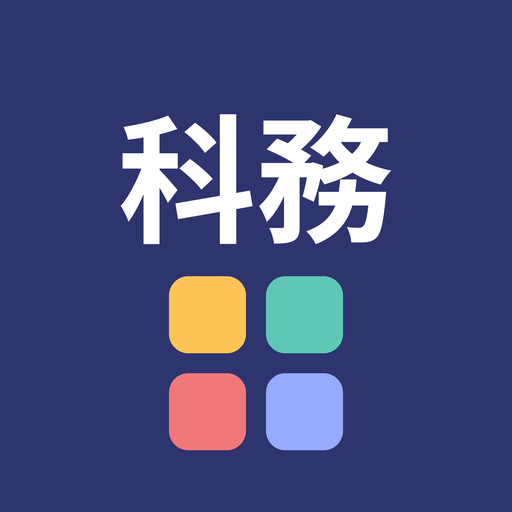
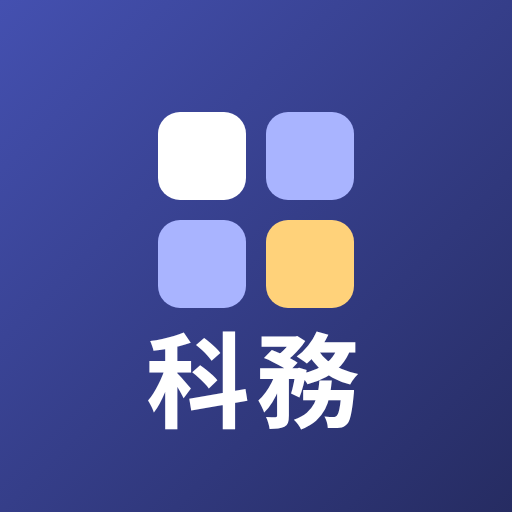
v1.6 入口加速、新圖示、意見回饋集中與版本紀錄
- Code.gs 新增 ?keys= 一次讀多個鍵；入口與晨會改用 getMany（舊版自動退回逐鍵）
- 入口先顯示本機快取（or:hubcache）再背景更新；Google 字型非阻塞載入
- 三個網站各自的新圖示與分享縮圖（調度板青綠、科務靛藍、晨會橘），引用加 ?v=2
- 意見回饋集中到 hub.html#fb，附版本紀錄；調度板、晨會只留連結按鈕

Claude-Session: https://claude.ai/code/session_01TCzKUp7wpwmxoDeWqBFV97

diff --git a/hub.html b/hub.html
@@ -3,10 +3,11 @@
 <head>
 <meta charset="utf-8">
 <meta name="viewport" content="width=device-width, initial-scale=1">
-<meta name="apple-mobile-web-app-capable" content="yes"><meta name="mobile-web-app-capable" content="yes"><meta name="apple-mobile-web-app-title" content="泌尿科入口"><meta name="robots" content="noindex,nofollow"><link rel="manifest" href="hub.webmanifest"><link rel="apple-touch-icon" href="hub-apple-touch-icon.png"><link rel="icon" type="image/png" href="hub-favicon.png"><meta name="theme-color" content="#2e346e"><meta property="og:title" content="泌尿科 科務入口"><meta property="og:description" content="人員名冊・常用連結・今日總覽"><meta property="og:image" content="og-hub.png"><meta property="og:type" content="website">
+<meta name="apple-mobile-web-app-capable" content="yes"><meta name="mobile-web-app-capable" content="yes"><meta name="apple-mobile-web-app-title" content="泌尿科入口"><meta name="robots" content="noindex,nofollow"><link rel="manifest" href="hub.webmanifest"><link rel="apple-touch-icon" href="hub-apple-touch-icon.png?v=2"><link rel="icon" type="image/png" href="hub-favicon.png?v=2"><meta name="theme-color" content="#2e346e"><meta property="og:title" content="泌尿科 科務入口"><meta property="og:description" content="今日總覽・人員名冊・交班・回饋"><meta property="og:image" content="og-hub.png?v=2"><meta property="og:type" content="website">
 <title>泌尿科 科務入口</title>
 <link rel="preconnect" href="https://fonts.googleapis.com">
-<link href="https://fonts.googleapis.com/css2?family=Figtree:wght@500;700;800&family=Noto+Sans+TC:wght@400;500;700&display=swap" rel="stylesheet">
+<link rel="preconnect" href="https://fonts.gstatic.com" crossorigin><link rel="preconnect" href="https://script.google.com"><link rel="preconnect" href="https://script.googleusercontent.com" crossorigin>
+<link href="https://fonts.googleapis.com/css2?family=Figtree:wght@500;700;800&family=Noto+Sans+TC:wght@400;500;700&display=swap" rel="stylesheet" media="print" onload="this.media='all'">
 <style>
 :root{color-scheme:light dark;--bg:light-dark(#f4f7f7,#0b1315);--card:light-dark(#fff,#121e21);--ink:light-dark(#0f262b,#e2edee);--mut:light-dark(#587076,#8ea6aa);--line:light-dark(#d8e2e3,#24363a);--scrub:light-dark(#0b5563,#0e6474);--soft:light-dark(#e4f0f1,#15313a);--red:#e5484d;--redbg:light-dark(#fdecec,#3a1a1c);--amb:#c77d00;--ambbg:light-dark(#fff4dc,#3a2c10);--ok:#1f8a5b}
 *{box-sizing:border-box;min-width:0}
@@ -54,6 +55,9 @@ tr.off td{opacity:.5}
  .kpis{grid-template-columns:repeat(2,1fr);gap:8px}.kpi{padding:10px}.kpi b{font-size:22px}.kpi span{font-size:12px}.tool{min-height:0}
  table.stack thead{display:none}table.stack tr{display:grid;grid-template-columns:1fr 1fr;gap:6px;border:1px solid var(--line);border-radius:12px;padding:10px;margin-bottom:8px}table.stack td{border:0;padding:0}table.stack td[data-l]::before{content:attr(data-l);display:block;font-size:12px;color:var(--mut)}table.stack input,table.stack select{width:100%}
 }
+.fbl{list-style:none;padding:0;margin:0}.fbl li{border-top:1px solid var(--line);padding:10px 0}.fbl li:first-child{border-top:0}.fbl li.dn .fbt{opacity:.6}
+textarea{font:inherit;color:var(--ink);background:var(--card);border:1px solid var(--line);border-radius:8px;padding:8px}
+.ver{border-left:3px solid var(--line);padding:2px 0 2px 14px;margin:0 0 14px}.ver.cur{border-left-color:var(--scrub)}.ver h3{margin:0;font-size:16px;display:flex;gap:8px;align-items:baseline;flex-wrap:wrap}.ver ul{margin:4px 0 0;padding-left:20px}.ver li{margin:2px 0}
 .imodal{position:fixed;inset:0;background:rgba(0,0,0,.45);display:flex;align-items:flex-end;justify-content:center;z-index:9999;padding:12px}.ibox{background:var(--card,#fff);color:var(--ink,#0f262b);border-radius:16px;max-width:420px;width:100%;padding:16px 18px;font-size:15px;line-height:1.6;box-shadow:0 10px 40px rgba(0,0,0,.3)}.ihead{display:flex;gap:12px;align-items:center;margin-bottom:8px}.ihead img{border-radius:11px}.ibox ol{padding-left:22px;margin:8px 0}.ibox li{margin:4px 0}.ik{display:inline-block;border:1px solid var(--line,#ccc);border-radius:6px;padding:0 6px;font-weight:700}.inote{color:var(--mut,#587076);font-size:13px;margin:4px 0}.ishare{border-top:1px solid var(--line,#ddd);margin-top:10px;padding-top:10px}.ishare input{width:100%;font-size:13px;margin:4px 0}.ibtn{border:1px solid var(--line,#ccc);background:var(--card,#fff);color:inherit;border-radius:10px;padding:8px 14px;font:inherit;min-height:40px;margin:4px 6px 0 0;cursor:pointer}.ibtn.p{background:#0b5563;color:#fff;border-color:#0b5563}@media(min-width:700px){.imodal{align-items:center}}
 </style>
 </head>
@@ -76,6 +80,10 @@ const LS={get(k){try{return JSON.parse(localStorage.getItem('or:'+k))}catch(e){r
 let gs=LS.get('gsync');if(!gs||!gs.url)gs=SYNC_URL?{url:SYNC_URL,token:'',on:true}:{url:'',token:'',on:false};
 const on=()=>gs.on&&gs.url;
 async function get(key){const r=await fetch(gs.url+(gs.url.includes('?')?'&':'?')+'key='+encodeURIComponent(key)+'&token='+encodeURIComponent(gs.token||''));const j=await r.json();if(!j.ok)throw new Error(j.err||'fail');return j.value}
+/* 一次讀多個鍵（Code.gs ?keys=）；舊版 Apps Script 不支援時自動改回逐鍵讀取 */
+async function getMany(keys){try{const r=await fetch(gs.url+(gs.url.includes('?')?'&':'?')+'keys='+encodeURIComponent(keys.join(','))+'&token='+encodeURIComponent(gs.token||''));const j=await r.json();
+  if(j.ok&&j.value&&typeof j.value==='object'&&!Array.isArray(j.value))return keys.map(k=>({status:'fulfilled',value:j.value[k]??null}))}catch(e){}
+ return Promise.allSettled(keys.map(get))}
 async function set(key,value){const r=await fetch(gs.url,{method:'POST',headers:{'Content-Type':'text/plain;charset=utf-8'},body:JSON.stringify({token:gs.token||'',key,value})});const j=await r.json();if(!j.ok)throw new Error(j.err||'fail')}
 const $=s=>document.querySelector(s);
 const esc=s=>String(s??'').replace(/[&<>"']/g,c=>({'&':'&amp;','<':'&lt;','>':'&gt;','"':'&quot;',"'":'&#39;'}[c]));
@@ -98,12 +106,18 @@ let S={people:null,links:null,cfg:null,dT:null,dM:null,er:null,err:'',loading:tr
 const isStand=()=>{try{return matchMedia('(display-mode: standalone)').matches||!!navigator.standalone}catch(e){return false}};
 const page=()=>(location.hash||'#home').slice(1);
 
-async function load(){S.loading=true;render();if(!on()){S.loading=false;S.err='nosync';render();return}ccLoad();
- const k=['common/people','common/links','config/main','days/'+today,'days/'+tmr,'er/list','common/handoff','meeting/drive','meeting/plan'];
- const r=await Promise.allSettled(k.map(get));const v=i=>r[i].status==='fulfilled'?r[i].value:null;
- if(r.every(x=>x.status==='rejected'))S.err='conn';else S.err='';
- S.people=v(0);S.links=v(1);{const DEF=[{n:'泌尿科指引更新',u:'https://urotrial-weekly-tw.shady-knoll-9572.chatgpt.site',d:'每週泌尿科指引與試驗更新'},{n:'癌症討論會試算表',u:CANCER_URL,d:'每週名單整理與統計'}];const L0=S.links||{items:[]};L0.items=L0.items||[];const seen=new Set(L0.done||[]);let add=0;for(const x of DEF)if(!seen.has(x.u)){if(!L0.items.some(y=>y.u===x.u)){L0.items.push(x);add++}seen.add(x.u)}L0.done=[...seen];S.links=L0;if(add||!(v(1)||{}).done){set('common/links',L0).catch(()=>{})}}S.cfg=v(2)&&v(2).cfg;S.dT=v(3);S.dM=v(4);S.er=v(5);S.ho=v(6);S.md=v(7);S.mp=v(8);
- if(!S.people&&S.cfg)S.people=seed(S.cfg);S.loading=false;render()}
+/* 載入：先用上次存在本機的資料立刻畫出來（hubcache），背景再一次向 Apps Script 取最新資料 */
+const KEYS=()=>['common/people','common/links','config/main','days/'+today,'days/'+tmr,'er/list','common/handoff','meeting/drive','meeting/plan','feedback/list'];
+function apply(m){const v=k=>m[k]===undefined?null:m[k];
+ S.people=v('common/people');S.links=v('common/links');S.cfg=v('config/main')&&v('config/main').cfg;S.dT=v('days/'+today);S.dM=v('days/'+tmr);S.er=v('er/list');S.ho=v('common/handoff');S.md=v('meeting/drive');S.mp=v('meeting/plan');S.fb=v('feedback/list');
+ if(!S.people&&S.cfg)S.people=seed(S.cfg)}
+{const c=LS.get('hubcache');if(c&&c.m){apply(c.m);if(c.cc)S.cc=c.cc;S.loading=false;S.stale=true}}
+async function load(){if(!S.stale)S.loading=true;render();if(!on()){S.loading=false;S.err='nosync';render();return}ccLoad();
+ const k=KEYS(),r=await getMany(k),m={};k.forEach((x,i)=>{if(r[i].status==='fulfilled')m[x]=r[i].value});
+ if(r.every(x=>x.status==='rejected')){S.err='conn';S.loading=false;render();return}S.err='';
+ const old=LS.get('hubcache')||{};LS.set('hubcache',{ts:Date.now(),m,cc:old.cc});
+ apply(m);{const DEF=[{n:'泌尿科指引更新',u:'https://urotrial-weekly-tw.shady-knoll-9572.chatgpt.site',d:'每週泌尿科指引與試驗更新'},{n:'癌症討論會試算表',u:CANCER_URL,d:'每週名單整理與統計'}];const L0=S.links||{items:[]};L0.items=L0.items||[];const seen=new Set(L0.done||[]);let add=0;for(const x of DEF)if(!seen.has(x.u)){if(!L0.items.some(y=>y.u===x.u)){L0.items.push(x);add++}seen.add(x.u)}L0.done=[...seen];S.links=L0;if(add||!(m['common/links']||{}).done){set('common/links',L0).catch(()=>{})}}
+ S.loading=false;S.stale=false;render()}
 function seed(c){const now=Date.now();return{ts:now,seeded:true,people:[...(c.res||[]).map(r=>({id:r.id,n:r.n,full:(String(r.alias||'').split(/[,，]/)[0]||'').trim(),role:r.lv==='Fellow'?'F':'R',lv:r.lv,on:!!r.on,ts:now})),...(c.sur||[]).map(x=>({id:'vs_'+x.n,n:x.n,full:x.n,role:'VS',lv:x.t||'主治醫師',on:true,ts:now}))]}}
 const P=()=>(S.people&&S.people.people)||[];
 const nm=id=>{const p=P().find(x=>x.id===id);if(p)return p.n;const r=((S.cfg||{}).res||[]).find(x=>x.id===id);return r?r.n:id};
@@ -124,7 +138,8 @@ function home(){if(S.err==='nosync')return setupCard();
    <dt>住院醫師休假</dt><dd>${lv.length?esc(lv.join('、')):'<span class="note">無</span>'}</dd>
    <dt>主治休假</dt><dd>${vl.length?vl.join('、'):'<span class="note">無</span>'}</dd></dl></div></section>
  <section><h2>② 工具</h2><div class="grid">${TOOLS.map(tool).join('')}</div><p class="note" style="margin:8px 2px 0">規劃中：${SOON.join('・')}</p></section>
- <section><h2>③ 常用連結 <small><a href="#links">編輯</a></small></h2>${lk.length?`<div class="grid">${lk.map(l=>`<a class="tool" href="${esc(l.u)}" target="_blank" rel="noopener"><b>${esc(l.n)}</b><p>${esc(l.d||l.u)}</p></a>`).join('')}</div>`:'<p class="note">還沒有其他連結。可以在「常用連結」分頁加入醫院系統入口等。</p>'}</section>`}
+ <section><h2>③ 常用連結 <small><a href="#links">編輯</a></small></h2>${lk.length?`<div class="grid">${lk.map(l=>`<a class="tool" href="${esc(l.u)}" target="_blank" rel="noopener"><b>${esc(l.n)}</b><p>${esc(l.d||l.u)}</p></a>`).join('')}</div>`:'<p class="note">還沒有其他連結。可以在「常用連結」分頁加入醫院系統入口等。</p>'}</section>
+ <p class="note" style="margin-top:-6px">目前版本 <b>v${CHANGELOG[0].v}</b>・${esc(CHANGELOG[0].t)}　<a href="#fb">💬 意見回饋・更新紀錄 →</a></p>`}
 
 function people(){if(S.err==='nosync')return setupCard();const all=P();
  const L=all.filter(p=>filt==='cur'?p.on!==false:filt==='off'?p.on===false:true).sort((a,b)=>(a.on===false)-(b.on===false)||'VSFR'.indexOf(a.role)-'VSFR'.indexOf(b.role)||String(b.lv).localeCompare(String(a.lv))||String(a.n).localeCompare(String(b.n)));
@@ -150,7 +165,7 @@ const CANCER_ID='1OaCFv8mcIf8lKyyX__Tj_at4Y8KsX5q50r7F2F6riiI';
 const CC_GID={next:772796418,todo:10,dv:1572085460,trk:0,stat:1426015442};
 const CC_VIEWS=[['next','下次討論會'],['todo','注意事項'],['dv','達文西術前'],['stat','統計'],['trk','個案追蹤（編輯）']];
 let ccView='next',ccMsg='';
-async function ccLoad(){if(!on())return;try{const r=await fetch(gs.url+(gs.url.includes('?')?'&':'?')+'action=cancerStatus&token='+encodeURIComponent(gs.token||''));const j=await r.json();if(!j.ok||!j.value)throw 0;S.cc=j.value}catch(e){S.cc={err:1}}render()}
+async function ccLoad(){if(!on())return;try{const r=await fetch(gs.url+(gs.url.includes('?')?'&':'?')+'action=cancerStatus&token='+encodeURIComponent(gs.token||''));const j=await r.json();if(!j.ok||!j.value)throw 0;S.cc=j.value;const c=LS.get('hubcache');if(c){c.cc=j.value;LS.set('hubcache',c)}}catch(e){S.cc={err:1}}render()}
 const ccDate=c=>{const d=String((c&&c.mtg)||'').replace(/\//g,'-').slice(0,10);return /^\d{4}-\d\d-\d\d$/.test(d)?d:''};
 const ccN=c=>{const n=(c&&c.cnt)||{};return{pend:n['待討論']||0,todo:(n['已討論-待手術']||0)+(n['暫緩/改期']||0)+(n['待確認']||0)}};
 function ccKpi(){const c=S.cc;if(!c||c.err)return'';const d=ccDate(c),k=ccN(c);
@@ -179,16 +194,48 @@ function handoff(){if(S.err==='nosync')return setupCard();const hu=(S.ho&&S.ho.u
  <iframe src="${ed}?rm=minimal" title="黃部長交班單" style="width:100%;height:calc(100vh - 210px);min-height:480px;border:1px solid var(--line);border-radius:10px;background:#fff"></iframe>
  <p class="note">要先登入有權限的 Google 帳號才看得到；手機上建議按「在 Google 文件開啟」用 App 編輯。</p></section>`}
 
+/* ===== 意見回饋與更新紀錄（#fb）=====
+   全站唯一的回饋處：調度板、晨會等其他頁面只放連到 hub.html#fb 的按鈕（可帶 ?from= 預選類別，例：hub.html?from=or#fb）。
+   資料鍵 feedback/list {items:[{id,name,cat,text,at,st:'new'|'done',re}], ts}（與舊版調度板回饋同一份）。
+   更新紀錄：每次合併到 main 時在 CHANGELOG 最前面加一筆（v 版本、d 日期、t 標題、s 影響的網站、i 摘要）。 */
+const CHANGELOG=[
+ {v:'1.6',d:'2026-11-23',t:'入口加速、新圖示、意見回饋集中',s:['科務入口','刀房調度板','晨會'],i:['科務入口打開時先顯示上次的資料，背景再一次讀取最新資料，不用再等好幾秒','三個網站換上新的主畫面圖示與分享縮圖（刀房＝青綠、科務＝靛藍、晨會＝橘）','意見回饋集中到科務入口這一頁；調度板、晨會只留「💬 意見回饋」按鈕','新增版本紀錄']},
+ {v:'1.5',d:'2026-11-23',t:'癌症討論會整合',s:['科務入口','癌症討論會'],i:['科務入口新增「癌症討論會」分頁：人數卡片＋直接看試算表','試算表新增「統計」與「達文西術前」頁','從 Drive 每週名單與討論紀錄自動更新個案追蹤']},
+ {v:'1.4',d:'2026-11-23',t:'晨會網站',s:['晨會'],i:['晨會改成獨立網站：重要公告與規定、重要會議加入日曆、未來 12 週時程','自動讀取每週簡報議程（只讀標題，不放 Drive 連結）','下次晨會建議、紀錄與統計']},
+ {v:'1.3',d:'2026-11-23',t:'科務入口重整',s:['科務入口'],i:['新增「黃部長交班」分頁（Google 文件交班單）','首頁分成今日總覽、工具、常用連結三區','分頁列加上 Notion 連結']},
+ {v:'1.2',d:'2026-11-23',t:'急診刀與自動更新',s:['刀房調度板'],i:['急診刀改填全院等待的插刀／緊急刀／一般急台數','Apps Script 會自動從 GitHub 更新程式']},
+ {v:'1.1',d:'2026-11-23',t:'調度板簡潔化',s:['刀房調度板'],i:['分成「看刀表」與「✏ 排刀模式」，設定收進 ⚙','時間軸依主治上色，可切回依術式','人力表只顯示分派結果']},
+ {v:'1.0',d:'2026-11-22',t:'第一版上線',s:['刀房調度板','科務入口'],i:['匯入刀表、自動排序與人力分派、急診刀、術前準備','科務入口：今日總覽、人員名冊、常用連結','可加到手機主畫面']}];
+const FBC=['刀房調度板','科務入口','晨會','癌症討論會','黃部長交班','其他'];
+const FROM={or:'刀房調度板',meeting:'晨會',cc:'癌症討論會',ho:'黃部長交班',hub:'科務入口'};
+let fbShow='open',fbMsg='',fbDraft='';
+const fbItems=()=>((S.fb&&S.fb.items)||[]);
+async function fbSave(mut){if(S.fb&&S.fb.items)mut(S.fb.items);fbMsg='儲存中…';render();try{const fresh=(await get('feedback/list'))||{items:[]};fresh.items=fresh.items||[];mut(fresh.items);fresh.ts=Date.now();await set('feedback/list',fresh);S.fb=fresh;fbMsg='已儲存'}catch(e){fbMsg='儲存失敗，請稍後再試'}render()}
+function fbPage(){if(S.err==='nosync')return setupCard();
+ const all=fbItems().slice().sort((a,b)=>String(b.at).localeCompare(String(a.at)));const open=all.filter(f=>f.st!=='done'),done=all.filter(f=>f.st==='done');
+ const pre=FROM[new URLSearchParams(location.search).get('from')]||'';
+ const item=f=>`<li class="${f.st==='done'?'dn':''}"><div class="row" style="justify-content:space-between;align-items:flex-start;flex-wrap:nowrap"><label class="row" style="gap:8px;align-items:flex-start;flex:1;flex-wrap:nowrap"><input type="checkbox" data-ch="fbDone" data-id="${esc(f.id)}" ${f.st==='done'?'checked':''} style="width:22px;height:22px;min-height:0;flex:none;margin-top:2px" aria-label="已解決"><span><span class="chip">${esc(f.cat||'其他')}</span> <b>${esc(f.name||'匿名')}</b> <span class="note">${esc(String(f.at||'').replace('T',' ').slice(0,16))}</span><span class="fbt" style="display:block;margin-top:4px;white-space:pre-wrap">${esc(f.text)}</span></span></label><button class="btn s" data-act="fbdel" data-id="${esc(f.id)}" aria-label="刪除">✕</button></div>
+  <input data-ch="fbRe" data-id="${esc(f.id)}" value="${esc(f.re||'')}" placeholder="回覆（例：已在 v${CHANGELOG[0].v} 加入）" style="width:100%;margin-top:6px"></li>`;
+ const L=fbShow==='done'?done:open;
+ return `<section class="card"><h2>💬 意見回饋 <small>刀房調度板、科務入口、晨會、癌症討論會的建議與問題都寫在這裡</small></h2>
+  <div class="row"><input id="fbName" placeholder="你的名字（可不填）" style="width:160px" value="${esc(LS.get('fbname')||'')}"><select id="fbCat" aria-label="哪個網站">${FBC.map(c=>`<option ${c===pre?'selected':''}>${c}</option>`).join('')}</select></div>
+  <textarea id="fbText" rows="3" style="width:100%;margin-top:8px" placeholder="例：希望首頁可以顯示明天的值班…（請勿填病人姓名或病歷號）">${esc(fbDraft)}</textarea>
+  <div class="row"><button class="btn p" data-act="fbadd">送出回饋</button><span class="note">${esc(fbMsg)}</span></div></section>
+ <section class="card" style="margin-top:14px"><div class="row" style="justify-content:space-between;margin-bottom:6px"><div class="seg"><button class="${fbShow==='open'?'on':''}" data-act="fbshow" data-v="open">待處理 ${open.length}</button><button class="${fbShow==='done'?'on':''}" data-act="fbshow" data-v="done">已解決 ${done.length}</button></div><span class="note">處理完把左邊打勾，就會移到「已解決」。</span></div>
+  ${L.length?`<ul class="fbl">${L.map(item).join('')}</ul>`:`<p class="note">${fbShow==='done'?'還沒有已解決的回饋。':'沒有待處理的回饋。'}</p>`}</section>
+ <section class="card" style="margin-top:14px"><h2>📋 版本紀錄 <small>目前 v${CHANGELOG[0].v}</small></h2>
+  ${CHANGELOG.map((c,i)=>`<div class="ver ${i?'':'cur'}"><h3><span class="t">v${c.v}</span>${esc(c.t)} <small class="note">${md(c.d)}・${c.s.map(esc).join('、')}</small></h3><ul>${c.i.map(x=>`<li>${esc(x)}</li>`).join('')}</ul></div>`).join('')}</section>`}
+
 function setupCard(){return `<section class="card"><h2>尚未連上同步</h2><p>入口網頁和刀房調度板共用同一個 Google 同步網址。若調度板已經設定好，請先在同一支手機／電腦打開一次<a href="./">刀房調度板</a>，再回來重新整理。</p>
  <div class="row"><input id="u" placeholder="https://script.google.com/macros/s/…/exec" style="flex:1;min-width:260px" value="${esc(gs.url)}"><input id="tk" placeholder="密碼（沒有就留空）" value="${esc(gs.token||'')}" style="width:150px"><button class="btn p" data-act="conn">連線</button></div></section>`}
 
 function render(){const pg=page();
  $('#sub').textContent=`總醫師工具箱・${md(today)}`;
- $('#sync').textContent=S.loading?'讀取中…':S.err==='conn'?'無法連上同步，顯示可能不是最新':S.err==='nosync'?'未設定同步':'已同步';
- $('#tabs').innerHTML=[['home','首頁'],['ho','黃部長交班'],['cc','癌症討論會'],['people','人員名冊'],['links','常用連結']].map(([k,v])=>`<a href="#${k}" ${pg===k?'aria-current="page"':''}>${v}</a>`).join('')+'<span class="sep"></span><a class="ext" href="./">🗓 刀房調度板</a><a class="ext" href="meeting.html">🕣 晨會</a><a class="ext" href="'+NOTION_URL+'" target="_blank" rel="noopener">📒 Notion ↗</a>';
+ $('#sync').textContent=S.stale?'更新中…':S.loading?'讀取中…':S.err==='conn'?'無法連上同步，顯示可能不是最新':S.err==='nosync'?'未設定同步':'已同步';
+ $('#tabs').innerHTML=[['home','首頁'],['ho','黃部長交班'],['cc','癌症討論會'],['people','人員名冊'],['links','常用連結'],['fb','💬 回饋・更新']].map(([k,v])=>`<a href="#${k}" ${pg===k?'aria-current="page"':''}>${v}</a>`).join('')+'<span class="sep"></span><a class="ext" href="./">🗓 刀房調度板</a><a class="ext" href="meeting.html">🕣 晨會</a><a class="ext" href="'+NOTION_URL+'" target="_blank" rel="noopener">📒 Notion ↗</a>';
  $('#inst').innerHTML=isStand()?'':'<a href="#" class="hbtn" data-inst>📲 加到主畫面</a>';
  if(S.loading&&!S.people&&S.err!=='nosync'){$('#app').innerHTML='<p class="note">讀取中…</p>';return}
- $('#app').innerHTML=pg==='ho'?handoff():pg==='cc'?cancer():pg==='people'?people():pg==='links'?links():home()}
+ $('#app').innerHTML=pg==='ho'?handoff():pg==='cc'?cancer():pg==='people'?people():pg==='links'?links():pg==='fb'?fbPage():home()}
 
 async function savePeople(mut){saving++;render();try{const fresh=(await get('common/people'))||S.people||{people:[]};fresh.people=fresh.people||[];
   if(S.people&&S.people.seeded&&!fresh.ts)fresh.people=S.people.people;delete fresh.seeded;mut(fresh);fresh.ts=Date.now();await set('common/people',fresh);S.people=fresh}catch(e){alert('儲存失敗，請稍後再試')}saving--;render()}
@@ -196,6 +243,10 @@ async function saveLinks(){try{await set('common/links',S.links);const m=$('#lms
 
 document.addEventListener('click',e=>{const b=e.target.closest('[data-act]');if(!b)return;const k=b.dataset.act;
  if(k==='filt'){filt=b.dataset.v;render()}
+ if(k==='fbshow'){fbShow=b.dataset.v;render()}
+ if(k==='fbdel'){if(!confirm('刪除這則回饋？'))return;const id=b.dataset.id;fbSave(L=>{const i=L.findIndex(x=>x.id===id);if(i>=0)L.splice(i,1)})}
+ if(k==='fbadd'){const t=$('#fbText').value.trim();if(!t){fbMsg='請先寫下內容';render();return}const name=$('#fbName').value.trim(),cat=$('#fbCat').value;LS.set('fbname',name);const n=new Date(),pad=x=>String(x).padStart(2,'0');
+  const f={id:'f'+Date.now().toString(36),name,cat,text:t,at:`${n.getFullYear()}-${pad(n.getMonth()+1)}-${pad(n.getDate())}T${pad(n.getHours())}:${pad(n.getMinutes())}`,st:'new'};fbShow='open';fbDraft=t;fbSave(L=>L.push(f)).then(()=>{if(fbMsg==='已儲存'){fbDraft='';fbMsg='已送出，謝謝！';render()}})}
  if(k==='add'){const r=b.dataset.r;const p={id:'p'+Date.now().toString(36),n:'新成員',full:'',role:r,lv:r==='R'?'R1':r==='F'?'Fellow':'主治醫師',on:true,ts:Date.now()};savePeople(f=>f.people.push(p))}
  if(k==='ccv'){e.preventDefault();ccView=b.dataset.v;render();return}
  if(k==='ccre'){S.cc=null;render();ccLoad();return}
@@ -207,6 +258,7 @@ document.addEventListener('click',e=>{const b=e.target.closest('[data-act]');if(
  if(k==='conn'){const u=$('#u').value.trim();if(!/^https:\/\/script\.google(usercontent)?\.com\//.test(u)){alert('網址應以 https://script.google.com/ 開頭');return}gs={url:u,token:$('#tk').value.trim(),on:true};LS.set('gsync',gs);load()}});
 document.addEventListener('change',e=>{const el=e.target;const v=el.type==='checkbox'?el.checked:el.value.trim();
  if(el.dataset.ch==='pf'){const id=el.dataset.id,f=el.dataset.f;savePeople(R=>{const p=R.people.find(x=>x.id===id);if(!p)return;p[f]=v;if(f==='role')p.lv=v==='R'?'R1':v==='F'?'Fellow':'主治醫師';p.ts=Date.now()})}
+ if(el.dataset.ch==='fbDone'||el.dataset.ch==='fbRe'){const id=el.dataset.id,f=el.dataset.ch==='fbDone';fbSave(L=>{const x=L.find(y=>y.id===id);if(x){if(f)x.st=v?'done':'new';else x.re=v}})}
  if(el.dataset.ch==='lf'){S.links.items[+el.dataset.i][el.dataset.f]=v;saveLinks()}});
 addEventListener('hashchange',render);
 load();setInterval(()=>{if(!document.hidden&&!saving&&page()==='home')load()},120000);
@@ -219,7 +271,7 @@ function showInstall(){const ua=navigator.userAgent,inApp=/Line\/|FBAN|FBAV|Inst
   :ios?`<ol><li>點 Safari 下方（或上方）的<b>分享</b>按鈕 <span class="ik">⬆</span></li><li>往下滑，點<b>「加入主畫面」</b> <span class="ik">＋</span></li><li>右上角按<b>「新增」</b></li></ol><p class="inote">要用 Safari 開才有這個選項；Chrome 也可以從「分享」裡找到。</p>`
   :and?`<ol><li>點 Chrome 右上角 <span class="ik">⋮</span></li><li>點<b>「新增至主畫面」</b>或<b>「安裝應用程式」</b></li><li>按<b>「安裝」</b></li></ol>`
   :`<ol><li>Chrome／Edge：網址列右邊的 <span class="ik">⊕</span> 安裝圖示，或選單 →「安裝」</li><li>手機上用 Safari／Chrome 開這個網址，再按「📲 加到主畫面」</li></ol>`;
- const m=document.createElement('div');m.className='imodal';m.innerHTML=`<div class="ibox"><div class="ihead"><img src="hub-apple-touch-icon.png" alt="" width="48" height="48"><div><b>加到主畫面</b><div class="inote">之後點圖示就能直接打開，像 App 一樣</div></div></div>${steps}
+ const m=document.createElement('div');m.className='imodal';m.innerHTML=`<div class="ibox"><div class="ihead"><img src="hub-apple-touch-icon.png?v=2" alt="" width="48" height="48"><div><b>加到主畫面</b><div class="inote">之後點圖示就能直接打開，像 App 一樣</div></div></div>${steps}
  <div class="ishare"><b>分享給大家</b><p class="inote">把這個連結貼到 LINE 群組，大家點開會自動用手機瀏覽器開啟，再按「📲 加到主畫面」即可。</p><input readonly value="${instLink()}"><button class="ibtn" data-icopy>複製安裝連結</button></div><button class="ibtn" data-iclose>關閉</button></div>`;
  document.body.appendChild(m);m.addEventListener('click',e=>{if(e.target===m||e.target.closest('[data-iclose]'))m.remove();if(e.target.closest('[data-iext]'))location.href=instLink();if(e.target.closest('[data-icopy]')){const t='泌尿科 科務入口（點開後按「📲 加到主畫面」）\n'+instLink();const ip=m.querySelector('.ishare input');try{navigator.clipboard.writeText(t).then(()=>{e.target.textContent='已複製 ✓'},()=>{ip.select();document.execCommand('copy');e.target.textContent='已複製 ✓'})}catch(x){ip.select();document.execCommand('copy')}}})}
 document.addEventListener('click',async e=>{const a=e.target.closest&&e.target.closest('[data-inst]');if(!a)return;e.preventDefault();e.stopPropagation();if(bip){bip.prompt();try{await bip.userChoice}catch(x){}bip=null;return}showInstall()},true);

diff --git a/index.html b/index.html
@@ -3,7 +3,7 @@
 <head>
 <meta charset="utf-8">
 <meta name="viewport" content="width=device-width, initial-scale=1">
-<meta name="apple-mobile-web-app-capable" content="yes"><meta name="mobile-web-app-capable" content="yes"><meta name="apple-mobile-web-app-title" content="刀房調度"><meta name="robots" content="noindex,nofollow"><link rel="manifest" href="manifest.webmanifest"><link rel="apple-touch-icon" href="apple-touch-icon.png"><link rel="icon" type="image/png" href="favicon.png"><meta name="theme-color" content="#0b5563"><meta property="og:title" content="泌尿科刀房調度板"><meta property="og:description" content="刀序・人力・急診刀・術前準備"><meta property="og:image" content="og-or.png"><meta property="og:type" content="website">
+<meta name="apple-mobile-web-app-capable" content="yes"><meta name="mobile-web-app-capable" content="yes"><meta name="apple-mobile-web-app-title" content="刀房調度"><meta name="robots" content="noindex,nofollow"><link rel="manifest" href="manifest.webmanifest"><link rel="apple-touch-icon" href="apple-touch-icon.png?v=2"><link rel="icon" type="image/png" href="favicon.png?v=2"><meta name="theme-color" content="#0b5563"><meta property="og:title" content="泌尿科刀房調度板"><meta property="og:description" content="刀序・人力・急診刀・術前準備"><meta property="og:image" content="og-or.png?v=2"><meta property="og:type" content="website">
 <title>泌尿科刀房調度板</title>
 <link rel="preconnect" href="https://fonts.googleapis.com">
 <link href="https://fonts.googleapis.com/css2?family=Figtree:wght@500;700;800&family=Noto+Sans+TC:wght@400;500;700&display=swap" rel="stylesheet">
@@ -182,7 +182,9 @@ const vsCol=n=>{const L=(cfg&&cfg.sur)||[];n=String(n||'').replace(/部長$/,'')
 const dispN=n=>{const x=(cfg.sur||[]).find(y=>y.n===n);return x&&x.t?n+x.t:n};
 let resAdv=false,gearOpen=false;
 let edMode=(()=>{try{return localStorage.getItem('or:edit')==='true'}catch(e){return false}})();
-const GEAR=[['res','人力與能力'],['set','術式與房間設定'],['fb','意見回饋'],['help','❓ 怎麼用']];
+const GEAR=[['res','人力與能力'],['set','術式與房間設定'],['help','❓ 怎麼用']];
+/* 意見回饋集中在科務入口 hub.html#fb（Apps Script 版用 GitHub Pages 網址） */
+const fbUrl=()=>(GAS?'https://ttimcom-hue.github.io/Uro-OR/':'')+'hub.html?from=or#fb';
 const caseCol=x=>colMode()==='vs'?vsCol(x.c.surgeon):(CATC[x.cat]||'#6f9bb6');
 const colLegend=tl=>colMode()==='vs'?[...new Set(tl.rooms.flatMap(r=>r.cases.map(x=>x.c.surgeon)))].map(n=>`<span><i style="background:${vsCol(n)}"></i>${esc(dispN(n))}</span>`).join(''):CATS.map(([k,n])=>`<span><i class="c-${k}"></i>${n}</span>`).join('');
 const CATN=Object.fromEntries(CATS);const isRob=c=>c==='robot'||c==='sp';
@@ -508,11 +510,11 @@ async function loadDay(date){setTimeout(()=>{if(day&&Array.isArray(day.er)&&day.
 function render(){const tl=timeline(day),D=demands(day,tl),asg=assign(day,D),pl=planMoves(day,tl),L=advise(day,tl,asg,pl);cache={asg};
  const w=dowOf(day.date),wk=isoWeek(day.date),par=day.par||(wk%2?'odd':'even');
  const tr=tplRooms(day).map(([r,s])=>`R${r} ${esc(s)}`).join(' · ')||'無固定刀房';
- $('#app').innerHTML=`<header><div class="hrow"><div><h1>泌尿科刀房調度板</h1>${!IN_CLAUDE&&!GAS?`<div class="hub row" style="gap:6px;margin:4px 0 2px"><a href="hub.html">🏠 科務入口</a><a href="hub.html#people">人員名冊</a><a href="hub.html#links">常用連結</a>${isStand()?'':'<a href="#" data-inst>📲 加到主畫面</a>'}</div>`:''}<div class="sub">${esc(tr)}</div></div>
+ $('#app').innerHTML=`<header><div class="hrow"><div><h1>泌尿科刀房調度板</h1>${!IN_CLAUDE&&!GAS?`<div class="hub row" style="gap:6px;margin:4px 0 2px"><a href="hub.html">🏠 科務入口</a><a href="hub.html#people">人員名冊</a><a href="hub.html#links">常用連結</a><a href="hub.html?from=or#fb">💬 意見回饋</a>${isStand()?'':'<a href="#" data-inst>📲 加到主畫面</a>'}</div>`:''}<div class="sub">${esc(tr)}</div></div>
  <div class="datebox"><button class="btn modebtn" data-edmode="1" title="${edMode?'回到簡潔的看刀表畫面':'顯示匯入、排序、加班評估、公告等排刀工具'}">${edMode?'✓ 完成排刀':'✏ 排刀模式'}</button><button class="btn imp-btn edonly" data-imp="1">📥 匯入刀表</button><label class="sr" for="date" hidden>日期</label><input type="date" id="date" data-ch="date" value="${day.date}" aria-label="日期"><span class="pill" style="background:#fff;color:var(--scrub)">週${DOW[w]} · 第${wk}週 · ${par==='odd'?'單週':'雙週'}</span>
  ${w===6?`<select data-ch="par" aria-label="單雙週"><option value="">自動判斷</option><option value="odd" ${day.par==='odd'?'selected':''}>單週</option><option value="even" ${day.par==='even'?'selected':''}>雙週</option></select>`:''}<span class="sync" id="sync">${syncTxt()}</span></div></div>
  <nav class="tabs" role="tablist">${[['plan','今日排程'],['er','急診刀'+((ERS.items||[]).filter(e=>!e.del&&e.st!=='done').length?'（'+(ERS.items||[]).filter(e=>!e.del&&e.st!=='done').length+'）':'')],['prep','術前準備'],...((gearOpen||GEAR.some(g=>g[0]===tab))?GEAR:[])].map(([k,n])=>`<button role="tab" data-act="tab" data-k="${k}" aria-selected="${tab===k}">${n}</button>`).join('')}${GEAR.some(g=>g[0]===tab)?'':`<button class="gear" data-gear="1" aria-expanded="${gearOpen}">${gearOpen?'收起 ‹':'⚙ 設定與說明 ›'}</button>`}</nav></header>
- <main>${tab==='plan'?planView(tl,asg,L):tab==='er'?erNight()+erSlotCard()+erCard():tab==='prep'?prepView():tab==='res'?resView():tab==='fb'?fbView():tab==='help'?helpView():setView()}</main>`;$('#app').classList.toggle('ro',!edMode);titleize($('#app'))}
+ <main>${tab==='plan'?planView(tl,asg,L):tab==='er'?erNight()+erSlotCard()+erCard():tab==='prep'?prepView():tab==='res'?resView():tab==='fb'?fbMoved():tab==='help'?helpView():setView()}</main>`;$('#app').classList.toggle('ro',!edMode);titleize($('#app'))}
 
 function planView(tl,asg,L){const S=cfg.set,dl=T(S.deadline),ot=T(S.nurseOT);
  const late=tl.rooms.filter(r=>otRm(r.id)&&r.end>dl),last=tl.rooms.filter(r=>otRm(r.id)).reduce((m,r)=>Math.max(m,r.end),0);
@@ -645,6 +647,7 @@ function prepView(){const TD=localISO();const gd=x=>x===day.date?day:upDays[x];c
 let fb=null;const FBC=['時間軸排刀','人力分配','急診刀','術前準備','匯入刀表','介面／手機','其他'];
 async function loadFb(){let v=null;try{if(gsOn())v=await gsGet('feedback/list');else if(db){const x=await db.doc('feedback/list').get();if(x.exists)v=JSON.parse(JSON.stringify(x.data()))}}catch(e){}fb=(v&&v.items)||((LS.get('feedback/list')||{}).items)||[];render()}
 const saveFb=()=>persist('feedback/list',{items:fb});
+function fbMoved(){return `<section class="card"><h2>意見回饋已搬到科務入口</h2><p>所有網站的建議與問題、以及版本更新紀錄，現在都集中在科務入口的「💬 回饋・更新」頁。</p><a class="btn p" style="text-decoration:none" href="${fbUrl()}"${GAS?' target="_blank" rel="noopener"':''}>前往意見回饋 →</a></section>`}
 function fbView(){if(fb===null){setTimeout(loadFb,0);return '<p class="card note">讀取回饋中…</p>'}
  const L=fb.slice().sort((a,b)=>String(b.at).localeCompare(String(a.at)));const open=L.filter(f=>f.st!=='done'),done=L.filter(f=>f.st==='done');
  const item=f=>{const i=fb.indexOf(f);return `<li class="${f.st==='done'?'dn':''}"><div class="row" style="justify-content:space-between;align-items:flex-start"><label class="row" style="gap:8px;align-items:flex-start;flex:1"><input type="checkbox" data-ch="fbDone" data-i="${i}" ${f.st==='done'?'checked':''} style="width:22px;height:22px;flex:none;margin-top:2px" aria-label="已解決"><span><span class="chip">${esc(f.cat)}</span> <b>${esc(f.name||'匿名')}</b> <span class="note">${esc(String(f.at).replace('T',' ').slice(0,16))}</span><span class="fbt" style="display:block;margin-top:4px;white-space:pre-wrap">${esc(f.text)}</span></span></label><button class="btn s" data-act="fbDel" data-i="${i}" aria-label="刪除">✕</button></div><input type="text" data-ch="fbRe" data-i="${i}" value="${esc(f.re||'')}" placeholder="回覆（例：已在新版加入）" style="width:100%;margin-top:6px"></li>`};
@@ -1046,7 +1049,7 @@ function helpView(){const go=(k,t)=>`<button class="btn s" data-act="tab" data-k
  <div class="card"><h3>② 調整、發公告</h3><ol><li>時間軸上<b>拖曳色塊</b>換順序或換房；點色塊可改時間、刪除</li><li>人力表可把人改成 OPD、pm 或固定某房</li><li>拉到最下面「LINE 群組公告」按「複製文字」貼到群組</li></ol>${go('plan','去排程')}</div>
  <div class="card"><h3>③ 急診刀</h3><ol><li>「急診刀」分頁按「新增急診刀」，填主治、術式、類別（床號勿填姓名）<br><span class="note">或 HIS「科別查詢」→「轉檔」→ 複製表格內容（不含標題）→ 貼到「匯入急診刀表」</span></li><li>病人開始禁食就按 NPO 旁的「現在」</li><li>看到全院順位時，<b>只要更新最前面那台</b>（＋／−），其他自動推估</li><li>要調順序：按住 ☰ 上下拖；接完改「完成」</li></ol><p class="note">全科共用、自動同步。</p>${go('er','去急診刀')}</div>
  <div class="card"><h3>④ 術前準備</h3><ol><li>「術前準備」分頁會列出明天要做的事：自費同意書、IIEF、灌腸＋DRE、MR fusion 畫圖、影像確認…</li><li>做完打勾，LINE 公告會自動拿掉</li></ol>${go('prep','去術前準備')}</div>
- </div><p class="note" style="margin-top:10px">手機：用瀏覽器開網址 →「分享／⋮」→「加入主畫面」，就像 App 一樣。有問題或建議請寫在「意見回饋」。</p></section>`}
+ </div><p class="note" style="margin-top:10px">手機：用瀏覽器開網址 →「分享／⋮」→「加入主畫面」，就像 App 一樣。有問題或建議請寫在<a href="${fbUrl()}"${GAS?' target="_blank" rel="noopener"':''}>💬 意見回饋</a>。</p></section>`}
 
 /* 顯示用職稱（例如 黃冠華 → 黃冠華部長）；資料本身仍用原名比對刀表 */
 function titleize(root){const T=(cfg.sur||[]).filter(x=>x.t&&x.n);if(!T.length||!root)return;const re=new RegExp('('+T.map(x=>x.n.replace(/[.*+?^${}()|[\]\\]/g,'\\$&')).join('|')+')(?!'+T.map(x=>x.t).join('|')+')','g');const mp=Object.fromEntries(T.map(x=>[x.n,x.n+x.t]));
@@ -1138,7 +1141,7 @@ function showInstall(){const ua=navigator.userAgent,inApp=/Line\/|FBAN|FBAV|Inst
   :ios?`<ol><li>點 Safari 下方（或上方）的<b>分享</b>按鈕 <span class="ik">⬆</span></li><li>往下滑，點<b>「加入主畫面」</b> <span class="ik">＋</span></li><li>右上角按<b>「新增」</b></li></ol><p class="inote">要用 Safari 開才有這個選項；Chrome 也可以從「分享」裡找到。</p>`
   :and?`<ol><li>點 Chrome 右上角 <span class="ik">⋮</span></li><li>點<b>「新增至主畫面」</b>或<b>「安裝應用程式」</b></li><li>按<b>「安裝」</b></li></ol>`
   :`<ol><li>Chrome／Edge：網址列右邊的 <span class="ik">⊕</span> 安裝圖示，或選單 →「安裝」</li><li>手機上用 Safari／Chrome 開這個網址，再按「📲 加到主畫面」</li></ol>`;
- const m=document.createElement('div');m.className='imodal';m.innerHTML=`<div class="ibox"><div class="ihead"><img src="apple-touch-icon.png" alt="" width="48" height="48"><div><b>加到主畫面</b><div class="inote">之後點圖示就能直接打開，像 App 一樣</div></div></div>${steps}
+ const m=document.createElement('div');m.className='imodal';m.innerHTML=`<div class="ibox"><div class="ihead"><img src="apple-touch-icon.png?v=2" alt="" width="48" height="48"><div><b>加到主畫面</b><div class="inote">之後點圖示就能直接打開，像 App 一樣</div></div></div>${steps}
  <div class="ishare"><b>分享給大家</b><p class="inote">把這個連結貼到 LINE 群組，大家點開會自動用手機瀏覽器開啟，再按「📲 加到主畫面」即可。</p><input readonly value="${instLink()}"><button class="ibtn" data-icopy>複製安裝連結</button></div><button class="ibtn" data-iclose>關閉</button></div>`;
  document.body.appendChild(m);m.addEventListener('click',e=>{if(e.target===m||e.target.closest('[data-iclose]'))m.remove();if(e.target.closest('[data-iext]'))location.href=instLink();if(e.target.closest('[data-icopy]')){const t='泌尿科刀房調度板（點開後按「📲 加到主畫面」）\n'+instLink();const ip=m.querySelector('.ishare input');try{navigator.clipboard.writeText(t).then(()=>{e.target.textContent='已複製 ✓'},()=>{ip.select();document.execCommand('copy');e.target.textContent='已複製 ✓'})}catch(x){ip.select();document.execCommand('copy')}}})}
 document.addEventListener('click',async e=>{const a=e.target.closest&&e.target.closest('[data-inst]');if(!a)return;e.preventDefault();e.stopPropagation();if(bip){bip.prompt();try{await bip.userChoice}catch(x){}bip=null;return}showInstall()},true);

diff --git a/meeting.html b/meeting.html
@@ -3,10 +3,10 @@
 <head>
 <meta charset="utf-8">
 <meta name="viewport" content="width=device-width, initial-scale=1">
-<meta name="apple-mobile-web-app-capable" content="yes"><meta name="mobile-web-app-capable" content="yes"><meta name="apple-mobile-web-app-title" content="晨會"><meta name="robots" content="noindex,nofollow"><link rel="manifest" href="meeting.webmanifest"><link rel="apple-touch-icon" href="hub-apple-touch-icon.png"><link rel="icon" type="image/png" href="hub-favicon.png"><meta name="theme-color" content="#0b5563"><meta property="og:title" content="泌尿科 晨會"><meta property="og:description" content="重要公告與規定・重要會議日曆・未來晨會時程"><meta property="og:image" content="og-hub.png"><meta property="og:type" content="website">
+<meta name="apple-mobile-web-app-capable" content="yes"><meta name="mobile-web-app-capable" content="yes"><meta name="apple-mobile-web-app-title" content="晨會"><meta name="robots" content="noindex,nofollow"><link rel="manifest" href="meeting.webmanifest"><link rel="apple-touch-icon" href="meeting-apple-touch-icon.png?v=2"><link rel="icon" type="image/png" href="meeting-favicon.png?v=2"><meta name="theme-color" content="#0b5563"><meta property="og:title" content="泌尿科 晨會"><meta property="og:description" content="重要公告與規定・重要會議日曆・未來晨會時程"><meta property="og:image" content="og-meeting.png?v=2"><meta property="og:type" content="website">
 <title>泌尿科 晨會</title>
 <link rel="preconnect" href="https://fonts.googleapis.com">
-<link href="https://fonts.googleapis.com/css2?family=Figtree:wght@500;700;800&family=Noto+Sans+TC:wght@400;500;700&display=swap" rel="stylesheet">
+<link href="https://fonts.googleapis.com/css2?family=Figtree:wght@500;700;800&family=Noto+Sans+TC:wght@400;500;700&display=swap" rel="stylesheet" media="print" onload="this.media='all'">
 <style>
 :root{color-scheme:light dark;--bg:light-dark(#f4f7f7,#0b1315);--card:light-dark(#fff,#121e21);--ink:light-dark(#0f262b,#e2edee);--mut:light-dark(#587076,#8ea6aa);--line:light-dark(#d8e2e3,#24363a);--scrub:light-dark(#0b5563,#0e6474);--soft:light-dark(#e4f0f1,#15313a);--red:#e5484d;--redbg:light-dark(#fdecec,#3a1a1c);--amb:#c77d00;--ambbg:light-dark(#fff4dc,#3a2c10);--ok:#1f8a5b}
 *{box-sizing:border-box;min-width:0}
@@ -93,6 +93,7 @@ const LS={get(k){try{return JSON.parse(localStorage.getItem('or:'+k))}catch(e){r
 let gs=LS.get('gsync');if(!gs||!gs.url)gs={url:SYNC_URL,token:'',on:true};
 const on=()=>gs.on&&gs.url;
 const q_=k=>gs.url+(gs.url.includes('?')?'&':'?')+k+'&token='+encodeURIComponent(gs.token||'');
+async function getMany(keys){try{const r=await fetch(q_('keys='+encodeURIComponent(keys.join(','))));const j=await r.json();if(j.ok&&j.value&&typeof j.value==='object'&&!Array.isArray(j.value))return keys.map(k=>({status:'fulfilled',value:j.value[k]??null}))}catch(e){}return Promise.allSettled(keys.map(get))}
 async function get(key){const r=await fetch(q_('key='+encodeURIComponent(key)));const j=await r.json();if(!j.ok)throw new Error(j.err||'fail');return j.value}
 async function set(key,value){const r=await fetch(gs.url,{method:'POST',headers:{'Content-Type':'text/plain;charset=utf-8'},body:JSON.stringify({token:gs.token||'',key,value})});const j=await r.json();if(!j.ok)throw new Error(j.err||'fail')}
 const $=s=>document.querySelector(s);
@@ -322,14 +323,14 @@ function render(){const pg=page();
  $('#sub').textContent=`週二 科部晨會・今天 ${md(today)}`;
  const t=S.md&&S.md.ts?new Date(S.md.ts):null;
  $('#sync').textContent=S.loading?'讀取中…':S.err==='conn'?'無法連上同步':t?`議程更新 ${t.getMonth()+1}/${t.getDate()} ${String(t.getHours()).padStart(2,'0')}:${String(t.getMinutes()).padStart(2,'0')}${S.md.left?`（還有 ${S.md.left} 週讀取中）`:''}`:'已同步';
- $('#tabs').innerHTML=TABS.map(([k,v])=>`<a href="#${k}" ${pg===k?'aria-current="page"':''}>${v}</a>`).join('')+'<span class="sep"></span><a class="ext" href="hub.html">🏠 科務入口</a>';
+ $('#tabs').innerHTML=TABS.map(([k,v])=>`<a href="#${k}" ${pg===k?'aria-current="page"':''}>${v}</a>`).join('')+'<span class="sep"></span><a class="ext" href="hub.html">🏠 科務入口</a><a class="ext" href="hub.html?from=meeting#fb">💬 意見回饋</a>';
  $('#tools').innerHTML=`${edit?'<button class="hbtn" data-act="scan">🔄 從 Drive 更新</button>':''}<button class="hbtn ${edit?'on':''}" data-act="edit">${edit?'✓ 完成編輯':'✏ 編輯'}</button>${isStand()?'':'<a href="#" class="hbtn" data-inst>📲 加到主畫面</a>'}`;
  if(!on()){$('#app').innerHTML=setupCard();return}
  if(S.loading&&!S.mp&&!S.md){$('#app').innerHTML='<p class="note">讀取中…</p>';return}
  const y=scrollY;$('#app').innerHTML=pplList()+(pg==='plan'?planPage():pg==='next'?nextPage():pg==='log'?logPage():pg==='stat'?statPage():home())+`<p class="note foot">議程由每週主簡報的 OUTLINE 頁自動讀取，只有標題，不含簡報內容。請勿在這裡填病人姓名、病歷號。</p>`;scrollTo(0,y)}
 
 async function load(){S.loading=true;render();if(!on()){S.loading=false;render();return}
- const k=['common/people','meeting/drive','meeting/plan'];const r=await Promise.allSettled(k.map(get));const v=i=>r[i].status==='fulfilled'?r[i].value:null;
+ const k=['common/people','meeting/drive','meeting/plan'];const r=await getMany(k);const v=i=>r[i].status==='fulfilled'?r[i].value:null;
  S.err=r.every(x=>x.status==='rejected')?'conn':'';S.people=v(0);S.md=v(1);S.mp=v(2);S.loading=false;render()}
 async function savePlan(mut){saving++;try{const fresh=(await get('meeting/plan'))||S.mp||{};S.mp=fresh;const M=MP();mut(M);M.ts=Date.now();await set('meeting/plan',M)}catch(e){alert('儲存失敗，請稍後再試')}saving--;render()}
 async function scan(){$('#sync').textContent='讀取 Drive 中…（最多 5 分鐘）';
@@ -382,7 +383,7 @@ function showInstall(){const ua=navigator.userAgent,inApp=/Line\/|FBAN|FBAV|Inst
   :ios?`<ol><li>點 Safari 下方（或上方）的<b>分享</b>按鈕 <span class="ik">⬆</span></li><li>往下滑，點<b>「加入主畫面」</b> <span class="ik">＋</span></li><li>右上角按<b>「新增」</b></li></ol><p class="inote">要用 Safari 開才有這個選項；Chrome 也可以從「分享」裡找到。</p>`
   :and?`<ol><li>點 Chrome 右上角 <span class="ik">⋮</span></li><li>點<b>「新增至主畫面」</b>或<b>「安裝應用程式」</b></li><li>按<b>「安裝」</b></li></ol>`
   :`<ol><li>Chrome／Edge：網址列右邊的 <span class="ik">⊕</span> 安裝圖示，或選單 →「安裝」</li><li>手機上用 Safari／Chrome 開這個網址，再按「📲 加到主畫面」</li></ol>`;
- const m=document.createElement('div');m.className='imodal';m.innerHTML=`<div class="ibox"><div class="ihead"><img src="hub-apple-touch-icon.png" alt="" width="48" height="48"><div><b>加到主畫面</b><div class="inote">之後點圖示就能直接打開，像 App 一樣</div></div></div>${steps}
+ const m=document.createElement('div');m.className='imodal';m.innerHTML=`<div class="ibox"><div class="ihead"><img src="meeting-apple-touch-icon.png?v=2" alt="" width="48" height="48"><div><b>加到主畫面</b><div class="inote">之後點圖示就能直接打開，像 App 一樣</div></div></div>${steps}
  <div class="ishare"><b>分享給大家</b><p class="inote">把這個連結貼到 LINE 群組，大家點開會自動用手機瀏覽器開啟，再按「📲 加到主畫面」即可。</p><input readonly value="${instLink()}"><button class="ibtn" data-icopy>複製安裝連結</button></div><button class="ibtn" data-iclose>關閉</button></div>`;
  document.body.appendChild(m);m.addEventListener('click',e=>{if(e.target===m||e.target.closest('[data-iclose]'))m.remove();if(e.target.closest('[data-iext]'))location.href=instLink();if(e.target.closest('[data-icopy]')){const t='泌尿科 晨會（點開後按「📲 加到主畫面」）\n'+instLink();const ip=m.querySelector('.ishare input');try{navigator.clipboard.writeText(t).then(()=>{e.target.textContent='已複製 ✓'},()=>{ip.select();document.execCommand('copy');e.target.textContent='已複製 ✓'})}catch(x){ip.select();document.execCommand('copy')}}})}
 document.addEventListener('click',async e=>{const a=e.target.closest&&e.target.closest('[data-inst]');if(!a)return;e.preventDefault();e.stopPropagation();if(bip){bip.prompt();try{await bip.userChoice}catch(x){}bip=null;return}showInstall()},true);

diff --git a/開發說明.md b/開發說明.md
@@ -3,11 +3,13 @@
 ## 檔案（GitHub repo 根目錄，GitHub Pages 發布）
 - `index.html`：刀房調度板（單一 HTML，所有 JS/CSS 內嵌）
 - `meeting.html`、`meeting.webmanifest`：晨會網站（見下方「晨會網站」）
-- `hub.html`：科務入口。分頁列：首頁／黃部長交班／癌症討論會／人員名冊／常用連結｜刀房調度板、Notion（外部）。首頁分三區：① 今日總覽（刀房、急診刀、值班休假，點卡片進調度板）② 工具（`TOOLS` 陣列；規劃中的列在 `SOON`）③ 常用連結（與工具重複的網址不再顯示）。「加到主畫面」在標題列右側。
+- `hub.html`：科務入口。分頁列：首頁／黃部長交班／癌症討論會／人員名冊／常用連結／💬 回饋・更新｜刀房調度板、晨會、Notion。首頁分三區：① 今日總覽（刀房、急診刀、值班休假，點卡片進調度板）② 工具（`TOOLS` 陣列；規劃中的列在 `SOON`）③ 常用連結（與工具重複的網址不再顯示）。「加到主畫面」在標題列右側。
 - `Code.gs`：Google Apps Script（同步儲存 + 癌症討論會試算表連動），部署成網頁應用程式
 - 入口「癌症討論會」分頁（`hub.html` `#cc`）：上方人數卡片來自 `?action=cancerStatus`（只有人數、日期、分頁 gid），下方用 iframe 直接顯示試算表的 下次討論會／注意事項／統計／個案追蹤（要登入有權限的 Google 帳號）。**不要改成經由 Apps Script 傳病人姓名到網頁**：網頁應用程式是匿名可存取的。
 - `Updater.gs`：Apps Script 從 GitHub main 自動更新自己（Code、CancerSheet、Updater、index），見下方「Apps Script 自動更新」
-- `manifest.webmanifest`、`hub.webmanifest`、`sw.js`、各 icon／og 圖：加到主畫面用
+- `manifest.webmanifest`、`hub.webmanifest`、`meeting.webmanifest`、`sw.js`、各 icon／og 圖：加到主畫面用。三個網站各一組圖示：調度板（無前綴，青綠、時間軸）、`hub-`（靛藍、四格）、`meeting-`（橘、日出），各有 `icon-192/512`、`apple-touch-icon`（180）、`favicon`（64，只有圖形）、`og-*.png`（1200×630 分享縮圖）。HTML 與 manifest 引用時加 `?v=2`；之後換圖要把版本號加一，手機才會抓新圖。
+- **載入速度**：入口與晨會用 `getMany()` 打 `?keys=a,b,c`（Code.gs `apiGetMany`，一次讀完 data 工作表）取代逐鍵請求；Apps Script 還是舊版時自動退回逐鍵讀。入口另把上次的資料存在本機 `or:hubcache`，打開先畫舊資料（右上「更新中…」），背景更新完再重畫。Google 字型改成非阻塞載入。
+- **意見回饋與版本紀錄**：全部集中在 `hub.html#fb`（資料鍵 `feedback/list`，與舊調度板回饋同一份）。其他網站只放按鈕連到 `hub.html?from=or#fb`（`from`＝or／meeting／cc／ho／hub，預選類別）；調度板的 `#fb` 舊分頁只顯示「已搬到科務入口」。**每次合併到 main，在 `hub.html` 的 `CHANGELOG` 最前面加一筆**（版本 v、日期、標題、影響的網站、2–4 行摘要），版本號第二碼加一。
 - `cancer/`：癌症討論會追蹤表（Google 試算表）的結構程式與說明，見 `cancer/開發說明.md`
 - 兩個 HTML 內的 `const SYNC_URL='…/exec'` 是 Apps Script 網址
 
